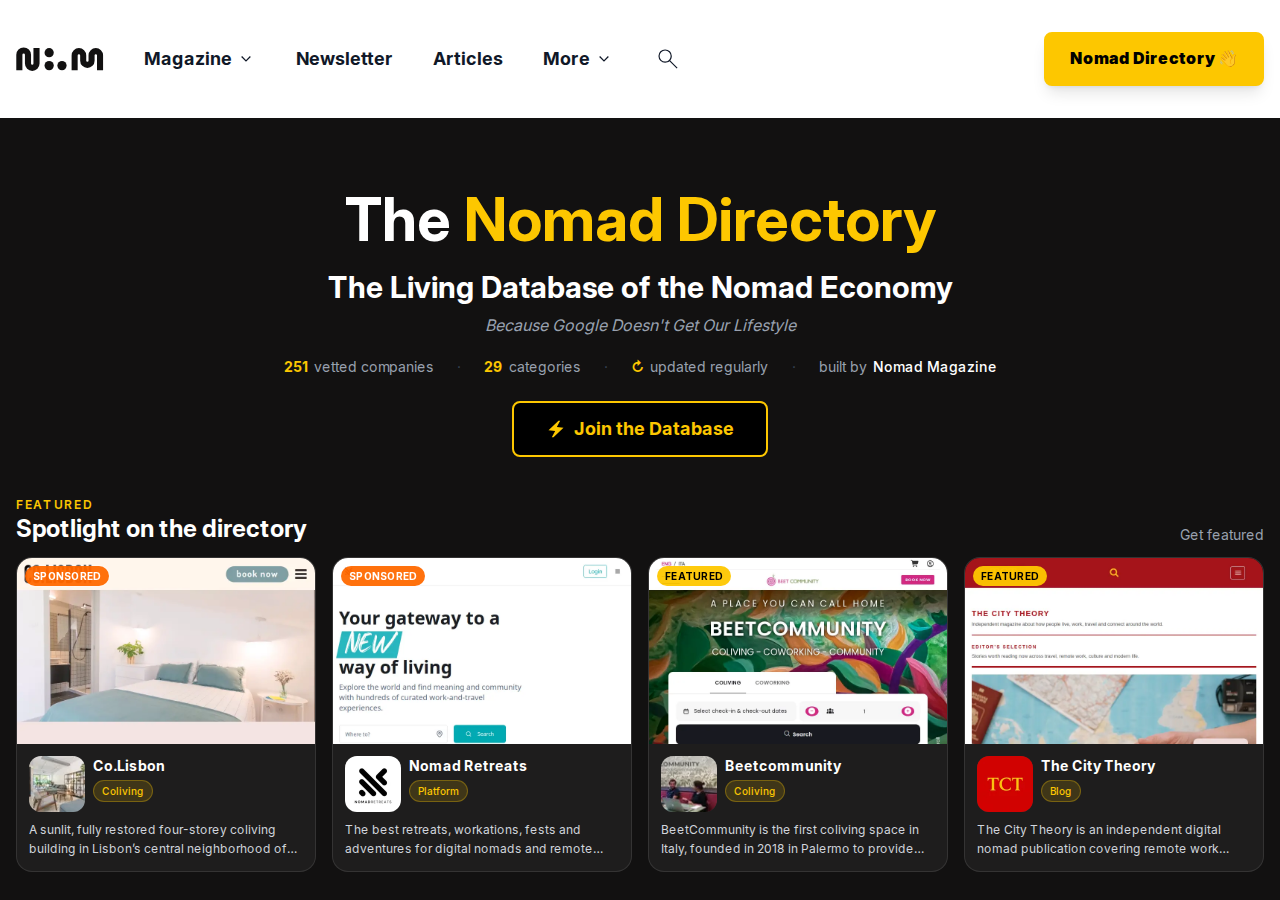
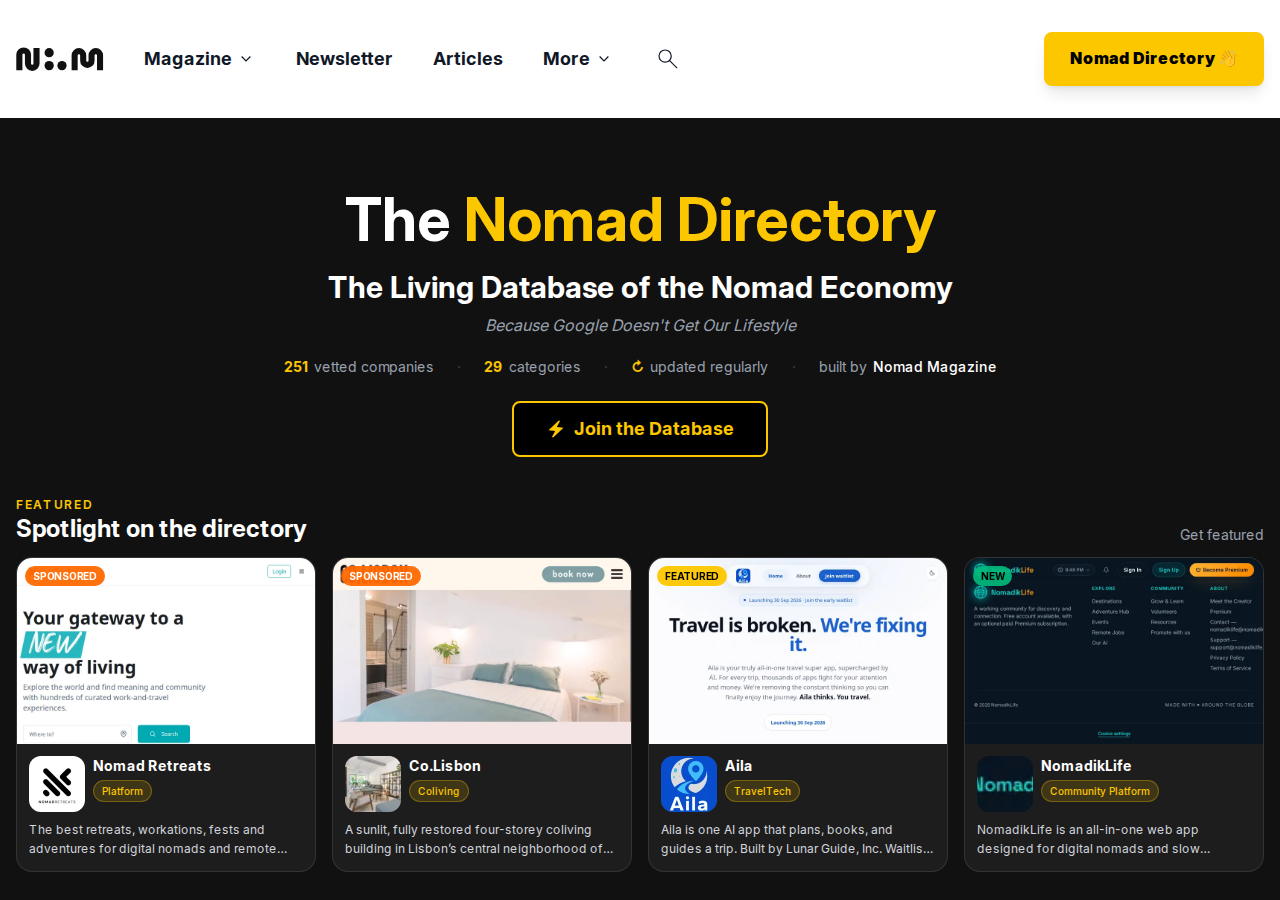
Address PR #57 review: Stripe periods, webhook retries, spotlight rules
Read subscription period end from item line items, fail on missing data with tests,
tighten sponsored spotlight selection and badge layout, and harden checkout/portal/webhook.

Changed region(s): [[0.0, 0.6222, 1.0, 0.9644]]

diff --git a/src/pages/api/stripe-webhook.ts b/src/pages/api/stripe-webhook.ts
@@ -5,6 +5,7 @@ import {
   syncDirectorySponsorshipCheckout,
   syncDirectorySponsorshipSubscription,
 } from '~/utils/directory-sponsorship-stripe-sync'
+import { isDirectorySponsorshipMetadata } from '~/utils/directory-sponsorship'
 import { requireWorkerSecret } from '~/utils/directory-vote-secrets'
 
 export const prerender = false
@@ -83,13 +84,10 @@ export const POST: APIRoute = async ({ request }) => {
       case 'checkout.session.completed': {
         console.log('💳 Handling checkout session completed')
         const session = event.data.object as Stripe.Checkout.Session
-        try {
+        if (isDirectorySponsorshipMetadata(session.metadata)) {
           requireWorkerSecret('SUPABASE_SERVICE_ROLE_KEY')
           await syncDirectorySponsorshipCheckout(stripe, session)
-        } catch (error) {
-          console.error('Directory sponsorship checkout sync skipped:', error instanceof Error ? error.message : error)
-        }
-        if (session.metadata?.product_type !== 'directory_sponsorship') {
+        } else {
           await handleCheckoutSessionCompleted(session, bentoSiteUuid, bentoPublishableKey, bentoSecretKey)
         }
         break
@@ -100,36 +98,39 @@ export const POST: APIRoute = async ({ request }) => {
         break
       
       // Subscription events
-      case 'customer.subscription.created':
+      case 'customer.subscription.created': {
         console.log('🔄 Handling subscription created')
-        try {
+        const subscription = event.data.object as Stripe.Subscription
+        if (isDirectorySponsorshipMetadata(subscription.metadata)) {
           requireWorkerSecret('SUPABASE_SERVICE_ROLE_KEY')
-          await syncDirectorySponsorshipSubscription(event.data.object as Stripe.Subscription)
-        } catch (error) {
-          console.error('Directory sponsorship subscription sync skipped:', error instanceof Error ? error.message : error)
+          await syncDirectorySponsorshipSubscription(subscription)
+        } else {
+          await handleSubscriptionCreated(subscription, bentoSiteUuid, bentoPublishableKey, bentoSecretKey)
         }
-        await handleSubscriptionCreated(event.data.object as Stripe.Subscription, bentoSiteUuid, bentoPublishableKey, bentoSecretKey)
         break
-      case 'customer.subscription.updated':
+      }
+      case 'customer.subscription.updated': {
         console.log('🔄 Handling subscription updated')
-        try {
+        const subscription = event.data.object as Stripe.Subscription
+        if (isDirectorySponsorshipMetadata(subscription.metadata)) {
           requireWorkerSecret('SUPABASE_SERVICE_ROLE_KEY')
-          await syncDirectorySponsorshipSubscription(event.data.object as Stripe.Subscription)
-        } catch (error) {
-          console.error('Directory sponsorship subscription sync skipped:', error instanceof Error ? error.message : error)
+          await syncDirectorySponsorshipSubscription(subscription)
+        } else {
+          await handleSubscriptionUpdated(subscription, bentoSiteUuid, bentoPublishableKey, bentoSecretKey)
         }
-        await handleSubscriptionUpdated(event.data.object as Stripe.Subscription, bentoSiteUuid, bentoPublishableKey, bentoSecretKey)
         break
-      case 'customer.subscription.deleted':
+      }
+      case 'customer.subscription.deleted': {
         console.log('❌ Handling subscription deleted')
-        try {
+        const subscription = event.data.object as Stripe.Subscription
+        if (isDirectorySponsorshipMetadata(subscription.metadata)) {
           requireWorkerSecret('SUPABASE_SERVICE_ROLE_KEY')
-          await syncDirectorySponsorshipSubscription(event.data.object as Stripe.Subscription)
-        } catch (error) {
-          console.error('Directory sponsorship subscription sync skipped:', error instanceof Error ? error.message : error)
+          await syncDirectorySponsorshipSubscription(subscription)
+        } else {
+          await handleSubscriptionDeleted(subscription, bentoSiteUuid, bentoPublishableKey, bentoSecretKey)
         }
-        await handleSubscriptionDeleted(event.data.object as Stripe.Subscription, bentoSiteUuid, bentoPublishableKey, bentoSecretKey)
         break
+      }
       case 'invoice.payment_succeeded':
         console.log('✅ Handling invoice payment succeeded')
         await handleInvoicePaymentSucceeded(event.data.object as Stripe.Invoice, bentoSiteUuid, bentoPublishableKey, bentoSecretKey)

diff --git a/src/utils/directory-sponsorship-stripe-sync.ts b/src/utils/directory-sponsorship-stripe-sync.ts
@@ -1,22 +1,20 @@
 import type Stripe from 'stripe'
 import { getSecret } from 'astro:env/server'
-import { SPONSORSHIP_PRODUCT_TYPE } from './directory-sponsorship'
+import { isDirectorySponsorshipMetadata } from './directory-sponsorship'
 import { planFromSubscription, upsertDirectorySponsorship } from './directory-sponsorship-store'
-
-function isSponsorshipMetadata(metadata: Stripe.Metadata | null | undefined): boolean {
-  return metadata?.product_type === SPONSORSHIP_PRODUCT_TYPE
-}
 
 function priceIds() {
   return { monthly: getSecret('STRIPE_PRICE_MONTHLY'), yearly: getSecret('STRIPE_PRICE_YEARLY') }
 }
 
 export async function syncDirectorySponsorshipCheckout(stripe: Stripe, session: Stripe.Checkout.Session): Promise<boolean> {
-  if (session.mode !== 'subscription' || !isSponsorshipMetadata(session.metadata)) return false
+  if (session.mode !== 'subscription' || !isDirectorySponsorshipMetadata(session.metadata)) return false
   const listingId = session.metadata?.listing_id
   const userId = session.metadata?.user_id
   const subscriptionId = typeof session.subscription === 'string' ? session.subscription : session.subscription?.id
-  if (!listingId || !userId || !subscriptionId) return false
+  if (!listingId || !userId || !subscriptionId) {
+    throw new Error('Directory sponsorship checkout session missing required metadata')
+  }
   const subscription = await stripe.subscriptions.retrieve(subscriptionId)
   const { monthly, yearly } = priceIds()
   const plan = planFromSubscription(subscription, monthly, yearly) ?? (session.metadata?.plan === 'yearly' ? 'yearly' : 'monthly')
@@ -26,10 +24,12 @@ export async function syncDirectorySponsorshipCheckout(stripe: Stripe, session: 
 }
 
 export async function syncDirectorySponsorshipSubscription(subscription: Stripe.Subscription): Promise<boolean> {
-  if (!isSponsorshipMetadata(subscription.metadata)) return false
+  if (!isDirectorySponsorshipMetadata(subscription.metadata)) return false
   const listingId = subscription.metadata.listing_id
   const userId = subscription.metadata.user_id
-  if (!listingId || !userId) return false
+  if (!listingId || !userId) {
+    throw new Error('Directory sponsorship subscription missing required metadata')
+  }
   const { monthly, yearly } = priceIds()
   const plan = planFromSubscription(subscription, monthly, yearly) ?? 'monthly'
   const customerId = typeof subscription.customer === 'string' ? subscription.customer : subscription.customer.id

diff --git a/src/utils/directory-spotlight.ts b/src/utils/directory-spotlight.ts
@@ -84,19 +84,30 @@ export function selectSpotlightListings(
   max = 4,
   maxSponsored = 2,
 ): SpotlightListing[] {
-  const sponsored = listings.filter((item) => sponsoredIds.has(item.id))
+  const pool =
+    pageType === 'all'
+      ? listings
+      : listings.filter((item) => {
+          if (!sponsoredIds.has(item.id)) return true
+          if (pageType === 'category') return item.category === filterValue
+          if (pageType === 'country') return item.country === filterValue
+          if (pageType === 'continent') return item.continent === filterValue
+          return true
+        })
+
+  const sponsored = pool.filter((item) => sponsoredIds.has(item.id))
   let preferredSponsored = sponsored
   if (pageType === 'category') preferredSponsored = sponsored.filter((item) => item.category === filterValue)
   else if (pageType === 'country') preferredSponsored = sponsored.filter((item) => item.country === filterValue)
   else if (pageType === 'continent') preferredSponsored = sponsored.filter((item) => item.continent === filterValue)
 
-  const pickedSponsored = shuffle(
-    preferredSponsored.length ? preferredSponsored : sponsored,
-  ).slice(0, maxSponsored)
+  const sponsorPool =
+    pageType === 'all' ? (preferredSponsored.length ? preferredSponsored : sponsored) : preferredSponsored
+  const pickedSponsored = shuffle(sponsorPool).slice(0, maxSponsored)
 
   const used = new Set(pickedSponsored.map((item) => item.id))
 
-  let preferred: SpotlightListing[] = listings.filter((item) => !used.has(item.id))
+  let preferred: SpotlightListing[] = pool.filter((item) => !used.has(item.id))
   if (pageType === 'category') preferred = preferred.filter((item) => item.category === filterValue)
   else if (pageType === 'country') preferred = preferred.filter((item) => item.country === filterValue)
   else if (pageType === 'continent') preferred = preferred.filter((item) => item.continent === filterValue)
@@ -108,6 +119,6 @@ export function selectSpotlightListings(
     return [...pickedSponsored, ...freePicked].slice(0, max)
   }
 
-  const fill = shuffle(listings.filter((item) => !used.has(item.id)))
+  const fill = shuffle(pool.filter((item) => !used.has(item.id)))
   return [...pickedSponsored, ...freePicked, ...fill].slice(0, max)
 }

diff --git a/src/pages/api/directory-sponsorship-checkout.ts b/src/pages/api/directory-sponsorship-checkout.ts
@@ -2,7 +2,7 @@ import type { APIRoute } from 'astro'
 import Stripe from 'stripe'
 import { getSecret } from 'astro:env/server'
 import { createSupabaseServerClient } from '~/utils/supabase-server'
-import { SPONSORSHIP_PRODUCT_TYPE } from '~/utils/directory-sponsorship'
+import { hasBlockingSponsorship, SPONSORSHIP_PRODUCT_TYPE } from '~/utils/directory-sponsorship'
 
 export const prerender = false
 
@@ -46,6 +46,24 @@ export const POST: APIRoute = async ({ request, cookies, url }) => {
   if (listingError || !listing || listing.owner_id !== user.id) return json({ error: 'Listing unavailable.' }, 403)
   if (!listing.published || listing.status !== 'approved') return json({ error: 'Only published listings can be sponsored.' }, 400)
 
+  const { data: existingSponsorship } = await supabase
+    .from('directory_sponsorships')
+    .select('status, current_period_end')
+    .eq('listing_id', listingId)
+    .maybeSingle()
+  if (hasBlockingSponsorship(existingSponsorship)) {
+    return json({ error: 'This listing already has an active sponsorship subscription.' }, 409)
+  }
+
+  const { data: priorBilling } = await supabase
+    .from('directory_sponsorships')
+    .select('stripe_customer_id')
+    .eq('user_id', user.id)
+    .not('stripe_customer_id', 'is', null)
+    .order('updated_at', { ascending: false })
+    .limit(1)
+    .maybeSingle()
+
   const stripe = new Stripe(stripeSecretKey, { apiVersion: '2026-02-25.clover' })
   const priceId = plan === 'yearly' ? yearlyPrice : monthlyPrice
   const site = url.origin
@@ -56,6 +74,11 @@ export const POST: APIRoute = async ({ request, cookies, url }) => {
     success_url: `${site}/console/boost/?success=1`,
     cancel_url: `${site}/console/boost/?canceled=1`,
     client_reference_id: listingId,
+    ...(priorBilling?.stripe_customer_id
+      ? { customer: priorBilling.stripe_customer_id }
+      : user.email
+        ? { customer_email: user.email }
+        : {}),
     metadata: {
       product_type: SPONSORSHIP_PRODUCT_TYPE,
       listing_id: listingId,

diff --git a/src/pages/api/directory-sponsorship-portal.ts b/src/pages/api/directory-sponsorship-portal.ts
@@ -13,6 +13,17 @@ const json = (data: unknown, status = 200) =>
 
 export const POST: APIRoute = async ({ request, cookies, url }) => {
   if (request.headers.get('origin') !== url.origin) return json({ error: 'Invalid request origin.' }, 403)
+  if (!request.headers.get('content-type')?.startsWith('application/json')) return json({ error: 'Invalid request.' }, 400)
+
+  let body: { listing_id?: unknown }
+  try {
+    body = await request.json()
+  } catch {
+    return json({ error: 'Invalid request.' }, 400)
+  }
+
+  const listingId = typeof body.listing_id === 'string' ? body.listing_id.trim() : ''
+  if (!listingId || !/^[0-9a-f-]{36}$/i.test(listingId)) return json({ error: 'Choose a listing to manage.' }, 400)
 
   const stripeSecretKey = getSecret('STRIPE_SECRET_KEY')
   if (!stripeSecretKey) return json({ error: 'Billing portal is not configured yet.' }, 503)
@@ -23,16 +34,22 @@ export const POST: APIRoute = async ({ request, cookies, url }) => {
   } = await supabase.auth.getUser()
   if (!user) return json({ error: 'Sign in to manage billing.' }, 401)
 
+  const { data: listing, error: listingError } = await supabase
+    .from('directory_managed_listings')
+    .select('id, owner_id')
+    .eq('id', listingId)
+    .maybeSingle()
+  if (listingError || !listing || listing.owner_id !== user.id) return json({ error: 'Listing unavailable.' }, 403)
+
   const { data: sponsorship, error } = await supabase
     .from('directory_sponsorships')
     .select('stripe_customer_id')
+    .eq('listing_id', listingId)
     .eq('user_id', user.id)
-    .order('updated_at', { ascending: false })
-    .limit(1)
     .maybeSingle()
 
   if (error || !sponsorship?.stripe_customer_id) {
-    return json({ error: 'No active sponsorship billing profile found.' }, 404)
+    return json({ error: 'No billing profile found for this listing.' }, 404)
   }
 
   const stripe = new Stripe(stripeSecretKey, { apiVersion: '2026-02-25.clover' })

diff --git a/src/utils/directory-sponsorship.ts b/src/utils/directory-sponsorship.ts
@@ -12,7 +12,36 @@ export type DirectorySponsorship = {
   updated_at: string
 }
 
+import type Stripe from 'stripe'
+
 export const SPONSORSHIP_PRODUCT_TYPE = 'directory_sponsorship'
+
+export function isDirectorySponsorshipMetadata(metadata: Stripe.Metadata | null | undefined): boolean {
+  return metadata?.product_type === SPONSORSHIP_PRODUCT_TYPE
+}
+
+type SubscriptionItemPeriod = Stripe.SubscriptionItem & { current_period_end?: number }
+
+export function subscriptionPeriodEndUnix(subscription: Stripe.Subscription): number {
+  const items = subscription.items?.data ?? []
+  if (!items.length) throw new Error('Stripe subscription has no items')
+  const ends = items
+    .map((item) => (item as SubscriptionItemPeriod).current_period_end)
+    .filter((value): value is number => typeof value === 'number' && value > 0)
+  if (!ends.length) throw new Error('Stripe subscription items missing current_period_end')
+  return Math.max(...ends)
+}
+
+const BLOCKING_SPONSORSHIP_STATUSES = new Set(['active', 'trialing', 'incomplete'])
+
+export function hasBlockingSponsorship(
+  row: Pick<DirectorySponsorship, 'status' | 'current_period_end'> | null | undefined,
+  nowMs = Date.now(),
+): boolean {
+  if (!row || !BLOCKING_SPONSORSHIP_STATUSES.has(row.status)) return false
+  if (row.status === 'incomplete') return true
+  return isSponsorshipActive(row, nowMs)
+}
 
 export function isSponsorshipActive(row: Pick<DirectorySponsorship, 'status' | 'current_period_end'>, nowMs = Date.now()): boolean {
   if (!['active', 'trialing'].includes(row.status)) return false

diff --git a/src/utils/directory-sponsorship-store.ts b/src/utils/directory-sponsorship-store.ts
@@ -1,6 +1,6 @@
 import type Stripe from 'stripe'
 import { serviceClient } from './directory-vote-cast'
-import { sponsorshipPlanFromPrice, type SponsorshipPlan } from './directory-sponsorship'
+import { sponsorshipPlanFromPrice, subscriptionPeriodEndUnix, type SponsorshipPlan } from './directory-sponsorship'
 
 export async function upsertDirectorySponsorship(options: {
   listingId: string
@@ -9,8 +9,7 @@ export async function upsertDirectorySponsorship(options: {
   subscription: Stripe.Subscription
   plan: SponsorshipPlan
 }) {
-  const periodUnix = (options.subscription as Stripe.Subscription & { current_period_end?: number }).current_period_end
-  const periodEnd = periodUnix ? new Date(periodUnix * 1000).toISOString() : new Date(0).toISOString()
+  const periodEnd = new Date(subscriptionPeriodEndUnix(options.subscription) * 1000).toISOString()
   const { error } = await serviceClient().from('directory_sponsorships').upsert(
     {
       listing_id: options.listingId,
